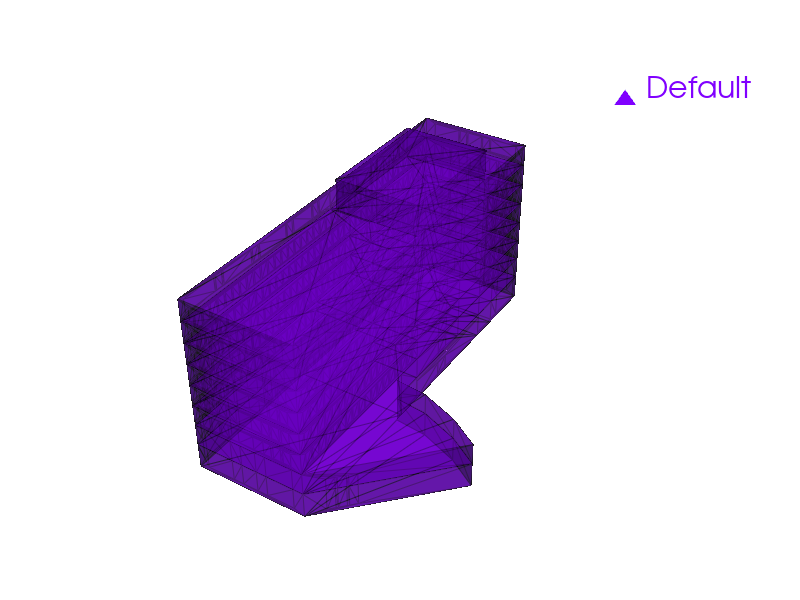
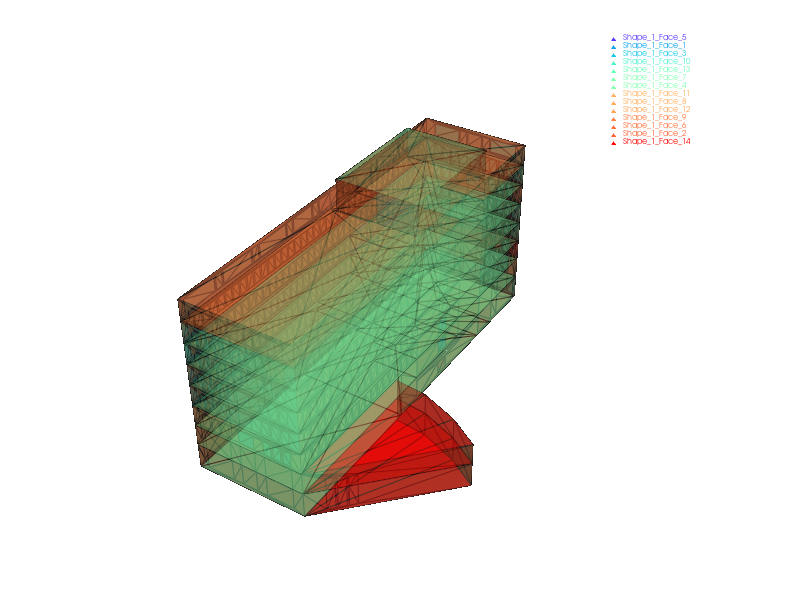
reset to last functional version

Changed region(s): [[0.2188, 0.18, 0.6562, 0.87], [0.75, 0.06, 0.9375, 0.24]]

diff --git a/test2.py b/test2.py
@@ -1,0 +1,102 @@
+from OCC.Core.TColStd import TColStd_HSequenceOfExtendedString
+
+import streamlit as st
+from OCC.Core.TopExp import TopExp_Explorer
+from OCC.Core.TopAbs import TopAbs_FACE
+from OCC.Core.TopoDS import topods
+from OCC.Core.BRep import BRep_Tool
+from OCC.Core.TopLoc import TopLoc_Location
+from OCC.Core.BRepMesh import BRepMesh_IncrementalMesh
+from OCC.Core.TCollection import TCollection_ExtendedString
+from OCC.Core.TDataStd import TDataStd_Name
+from OCC.Core.XCAFDoc import XCAFDoc_DocumentTool, XCAFDoc_ShapeTool
+from OCC.Core.TDF import TDF_LabelSequence
+from OCC.Core.STEPCAFControl import STEPCAFControl_Reader
+from OCC.Core.TDocStd import TDocStd_Document
+import matplotlib.pyplot as plt
+from OCC.Core.IFSelect import IFSelect_RetDone
+
+import pyvista as pv
+import numpy as np
+from scipy.spatial import ConvexHull
+import tempfile
+import os
+
+# App title
+st.title("TEST 2 - STEP File Visualization with Convex Hull and Layers")
+
+# File upload
+uploaded_file = st.file_uploader("Upload a STEP file", type=["step", "stp"])
+
+if uploaded_file is not None:
+    try:
+        # Save the uploaded file temporarily
+        with tempfile.NamedTemporaryFile(delete=False,
+                                         suffix=".step") as tmp_file:
+            tmp_file.write(uploaded_file.read())
+            step_file_path = tmp_file.name
+
+        st.info(f"Temporary file saved at: {step_file_path}")
+
+        with open(step_file_path, "r", encoding="utf8") as step_file:
+            step_file_as_string = step_file.read()
+
+        _shapes = []
+
+        # create an handle to a document
+        # doc = TDocStd_Document("pythonocc-doc")
+        doc = TDocStd_Document(TCollection_ExtendedString("pythonocc-doc"))
+
+        # Get root assembly
+        shape_tool = XCAFDoc_DocumentTool.ShapeTool(doc.Main())
+        l_colors = XCAFDoc_DocumentTool.ColorTool(doc.Main())
+        l_layers = XCAFDoc_DocumentTool.LayerTool(doc.Main())
+        l_materials = XCAFDoc_DocumentTool.MaterialTool(doc.Main())
+
+        step_reader = STEPCAFControl_Reader()
+        step_reader.SetColorMode(True)
+        step_reader.SetLayerMode(True)
+        step_reader.SetNameMode(True)
+        step_reader.SetMatMode(True)
+
+        # status = step_reader.ReadStream("pyocc_stream", step_file_as_string)
+        status = step_reader.ReadFile(step_file_path)
+        if status == IFSelect_RetDone:
+            step_reader.Transfer(doc)
+
+        labels = TDF_LabelSequence()
+        color_labels = TDF_LabelSequence()
+
+        shape_tool.GetFreeShapes(labels)
+
+        st.write("Number of shapes at root :%i" % labels.Length())
+        for i in range(labels.Length()):
+            sub_shapes_labels = TDF_LabelSequence()
+            print("Is Assembly :", shape_tool.IsAssembly(labels.Value(i + 1)))
+            sub_shapes = shape_tool.GetSubShapes(labels.Value(i + 1),
+                                                 sub_shapes_labels)
+            st.write("Number of subshapes in the assemly :%i" %
+                     sub_shapes_labels.Length())
+        l_colors.GetColors(color_labels)
+
+        st.write("Number of colors=%i" % color_labels.Length())
+        for i in range(color_labels.Length()):
+            color = color_labels.Value(i + 1)
+
+        for i in range(labels.Length()):
+            label = labels.Value(i + 1)
+            a_shape = shape_tool.GetShape(label)
+            m = l_layers.GetLayers(a_shape)
+            st.write(f"length layers: {m.Length()} for shape {a_shape}")
+            _shapes.append(a_shape)
+
+        # Cleanup
+        try:
+            os.unlink(step_file_path)
+        except Exception:
+            pass
+
+    except Exception:
+        pass
+else:
+    st.info("Please upload a STEP file to begin.")

diff --git a/main.py b/main.py
@@ -1,5 +1,3 @@
-from OCC.Core.TColStd import TColStd_HSequenceOfExtendedString
-
 import streamlit as st
 from OCC.Core.TopExp import TopExp_Explorer
 from OCC.Core.TopAbs import TopAbs_FACE
@@ -14,6 +12,7 @@ from OCC.Core.TDF import TDF_LabelSequence
 from OCC.Core.STEPCAFControl import STEPCAFControl_Reader
 from OCC.Core.TDocStd import TDocStd_Document
 import matplotlib.pyplot as plt
+import colorsys
 
 import pyvista as pv
 import numpy as np
@@ -113,32 +112,8 @@ if uploaded_file is not None:
                     all_input_vertices.append(face_vertices)
                     all_input_faces.append(np.array(face_faces))
 
-                    # Get layer name from presentation layer
-                    layer_name = "Default"
-
-                    # Get layer tool
-                    layer_tool = XCAFDoc_DocumentTool.LayerTool(doc.Main())
-                    if layer_tool is not None:
-                        layers = TDF_LabelSequence()
-                        layer_tool.GetLayerLabels(layers)
-
-                        for i in range(1, layers.Length() + 1):
-                            layer_label = layers.Value(i)
-                            shapes = TDF_LabelSequence()
-                            layer_tool.GetShapesOfLayer(layer_label, shapes)
-
-                            from OCC.Core.TDataStd import TDataStd_Name
-                            name_attr = TDataStd_Name()
-                            if layer_label.FindAttribute(TDataStd_Name.GetID(), name_attr):
-                                try:
-                                    name_handle = name_attr.Get()
-                                    if name_handle:
-                                        layer_name = name_handle.ToExtString()
-                                        break
-                                except:
-                                    pass
-
-                    # Store layer information
+                    # Simplified layer handling - just use shape index and face count
+                    layer_name = f"Shape_{shape_idx}_Face_{face_count}"
                     all_layers.extend([layer_name] * len(face_faces))
                     total_vertex_offset += len(face_vertices)
 
